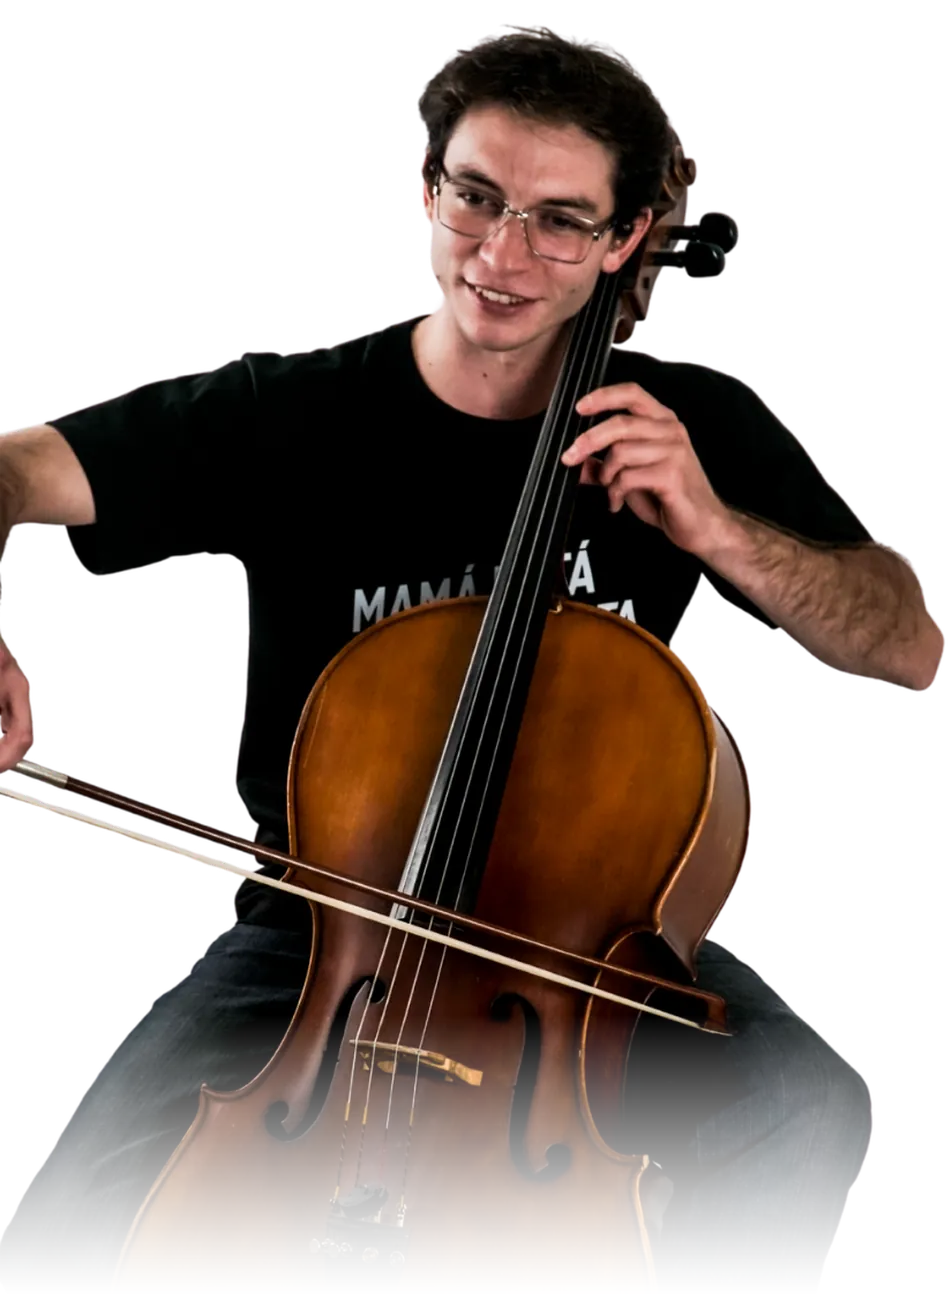
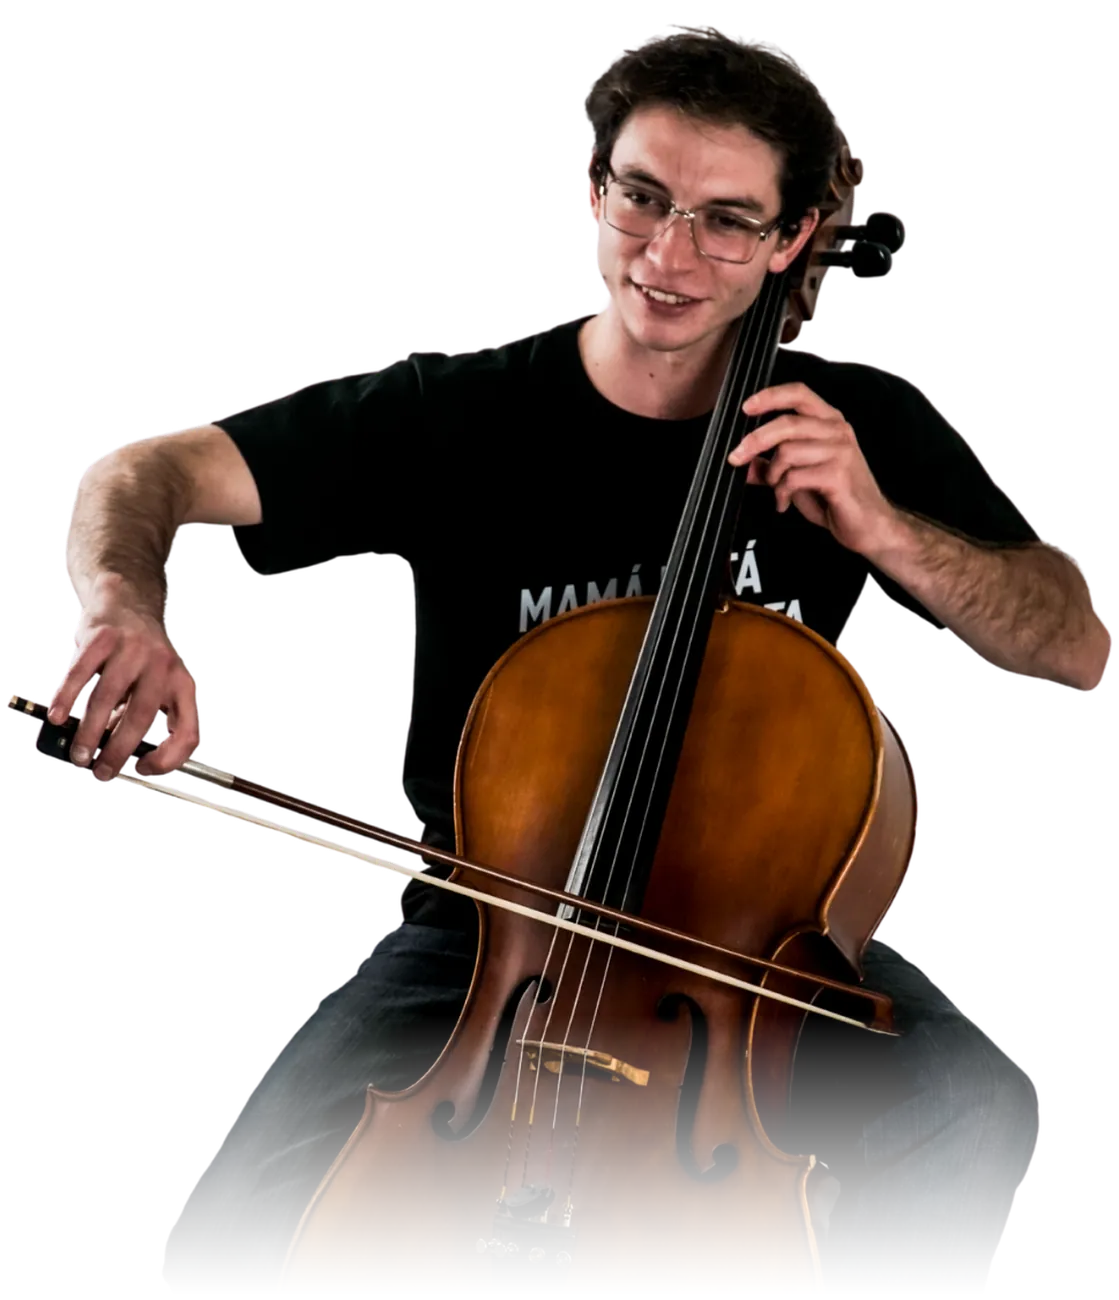
v1.10

diff --git a/programa.js b/programa.js
@@ -2,7 +2,7 @@
 // La versión se publica con herramientas/publicar.js, que la copia a los ?v= de index.html.
 (function () {
   "use strict";
-  const VERSION = "1.9";
+  const VERSION = "1.10";
   const D = window.MEMC;
   const $ = (s, el = document) => el.querySelector(s);
   const $$ = (s, el = document) => [...el.querySelectorAll(s)];
@@ -47,7 +47,7 @@
   // 02 · La obra
   if (D.sinopsis && D.sinopsis.parrafos.length) {
     const s = D.sinopsis;
-    const claves = /^(achicarse|chiquita|imposible|amor)/i;
+    const claves = /^(achicarse|agrandarse|chiquita|juntos|luz)/i;
     const palabras = (t) => esc(t).split(/\s+/).map((w) => `<span class="w${claves.test(w) ? " clave" : ""}">${w}</span>`).join(" ");
     const sello = s.sello ? `
       <div class="sello" data-reveal="sello">
@@ -62,6 +62,7 @@
       ${titulo(["De qué", "se trata"])}
       ${s.pendiente && borrador ? '<p class="nota-pendiente" data-reveal="sube">Borrador: falta el texto oficial</p>' : ""}
       <div class="lectura">${s.parrafos.map((p) => `<p>${palabras(p)}</p>`).join("")}</div>
+      ${s.resena ? `<blockquote class="resena" data-reveal="sube"><p>“${esc(s.resena.cita)}”</p><footer>${s.resena.url ? `<a href="${esc(s.resena.url)}" target="_blank" rel="noopener">${esc(s.resena.autora)}</a>` : esc(s.resena.autora)}</footer></blockquote>` : ""}
       ${s.foto ? `<figure class="foto-obra" data-reveal="telon"><img src="${esc(s.foto.chica || s.foto.src)}" srcset="${esc(s.foto.chica || s.foto.src)} 800w, ${esc(s.foto.src)} 1600w" sizes="(min-width: 700px) 600px, 100vw" alt="${esc(s.foto.alt)}" loading="lazy" decoding="async"></figure>` : ""}
       ${(sello || s.dato) ? `<div class="premio">${sello}${s.dato ? `<p data-reveal="sube" style="--d:200ms">${esc(s.dato)}</p>` : ""}</div>` : ""}
       ${D.obra.duracion ? `<p class="duracion" data-reveal="sube">Duración: ${esc(D.obra.duracion)}</p>` : ""}
@@ -216,8 +217,9 @@
 
   // ---------- Elenco y banda: el afiche ----------
   // Todo pasa en el mismo lugar, como un afiche que cambia: el color de fondo, el nombre gigante detrás y la persona
-  // adelante, que lo tapa. Arranca con todos juntos (el saludo final) y después pasa uno por uno. Va solo mientras
-  // está en pantalla y se frena apenas alguien toca. Solo se animan transform y opacity.
+  // adelante, que lo tapa. Arranca con las imágenes del foco que armaron ellos (img/foco/: el título y las siluetas),
+  // que se funden en todos juntos (el saludo final); después pasa uno por uno. Va solo mientras está en pantalla y
+  // se frena apenas alguien toca. Solo se animan transform y opacity.
   (function afiche() {
     const raiz = $("#escenario");
     if (!raiz) return;
@@ -225,14 +227,16 @@
     const TONOS = ["#ff856e", "#34c4aa", "#c89d4c", "#e4d5b6", "#2bd394"];
     const primerNombre = (n) => n.split(" ")[0];
     const GRUPOS = {
-      elenco: { titulo: "Elenco", intro: D.elencoIntro || "", gente: (D.elenco || []).map((p) => ({ ...p, palabra: p.personaje, papel: "" })) },
-      banda: { titulo: "Banda", intro: D.bandaIntro || "", gente: (D.banda || []).map((p) => ({ ...p, palabra: primerNombre(p.nombre), papel: p.rol })) },
+      elenco: { focos: ["portada", "elenco"], titulo: "Elenco", intro: D.elencoIntro || "", gente: (D.elenco || []).map((p) => ({ ...p, palabra: p.personaje, papel: "" })) },
+      banda: { focos: ["banda"], titulo: "Banda", intro: D.bandaIntro || "", gente: (D.banda || []).map((p) => ({ ...p, palabra: primerNombre(p.nombre), papel: p.rol })) },
     };
     let grupo = GRUPOS.elenco.gente.length ? "elenco" : "banda";
     let reloj = null, auto = true, actual = null, visible = false, iniciado = false;
     let ps = [], ir = () => {};
+    const PISTA = '<p class="e-pista">Tocá a alguien o deslizá</p>';
     function textoHTML(paso, g) {
-      if (!paso.p) return `<p class="e-pregunta">${esc(g.intro)}</p><p class="e-pista">Tocá a alguien o deslizá</p>`;
+      if (paso.tipo === "foco") return `<p class="e-pregunta">${esc(g.intro)}</p>`;
+      if (paso.tipo === "todos") return `<p class="e-pregunta">${esc(g.intro)}</p>${PISTA}`;
       const p = paso.p;
       return `${p.papel ? `<p class="e-papel">${esc(p.papel)}</p>` : ""}<h3 class="e-pill" style="--tono:${p.tono}">${esc(p.nombre)}</h3>` +
         (p.bio ? `<p class="e-bio">${esc(p.bio)}</p><button class="e-leer" type="button">Leer más</button>` : "");
@@ -245,12 +249,12 @@
       if (!auto || !visible) return;
       const c = ps[i].p && caras.find((x) => x.dataset.id === ps[i].p.id);
       if (c && !quieto) { void c.offsetWidth; c.classList.add("corre"); }
-      const sig = i + 1 < ps.length ? i + 1 : 1;
-      reloj = setTimeout(() => ir(sig), ps[i].p ? T : 3000);
+      const sig = i + 1 < ps.length ? i + 1 : 0;
+      reloj = setTimeout(() => ir(sig), ps[i].p ? T : ps[i].tipo === "foco" ? 2400 : 3200);
     }
     function montar() {
       const g = GRUPOS[grupo], n = g.gente.length;
-      ps = [{ p: null }, ...g.gente.map((p) => ({ p }))]; actual = null; clearTimeout(reloj);
+      ps = [...g.focos.map((f) => ({ tipo: "foco", f })), { tipo: "todos" }, ...g.gente.map((p) => ({ tipo: "persona", p }))]; actual = null; clearTimeout(reloj);
       g.gente.forEach((p, k) => { p.tono = TONOS[k % TONOS.length]; });
       const hay = (k) => GRUPOS[k].gente.length;
       const capa = (k, txt, clase) => `<p class="${clase}" data-k="${esc(k)}" aria-hidden="true">${esc(txt)}</p>`;
@@ -264,6 +268,7 @@
           ${capa("todos", g.titulo, "e-palabra on")}${g.gente.map((p) => capa(p.id, p.palabra, "e-palabra")).join("")}
           ${g.gente.map((p, k) => `<button class="e-figura" type="button" data-id="${esc(p.id)}" style="--k:${k}" aria-label="Conocer a ${esc(p.nombre)}"><img src="img/${grupo}/${esc(p.id)}.webp" alt="" decoding="async"></button>`).join("")}
           ${g.gente.map((p) => capa(p.id, p.palabra, "e-palabra e-borde")).join("")}
+          <button class="e-foco" type="button" aria-label="Ver a todos">${g.focos.map((f) => `<img data-f="${f}" src="img/foco/${f}.webp" alt="" decoding="async">`).join("")}</button>
           <div class="e-velo"></div>
           <div class="e-texto" aria-live="polite"></div>
         </div>
@@ -271,11 +276,16 @@
       const cuadro = $(".e-cuadro", raiz), texto = $(".e-texto", raiz), figuras = $$(".e-figura", raiz);
       // todos juntos: en fila, más chicos y arriba; los impares un poco más adelante
       const enFila = (k) => {
-        const W = cuadro.clientWidth, H = cuadro.clientHeight, ancho = Math.min(W * 0.84, H * 0.95);
+        const W = cuadro.clientWidth, H = cuadro.clientHeight, ancho = Math.min(W * 0.7, H * 0.8);
         const x = (k + 0.5) / n * ancho - ancho / 2, adelante = k % 2;
-        return `translate(${x.toFixed(1)}px, ${(-H * (adelante ? 0.24 : 0.29)).toFixed(1)}px) scale(${adelante ? 0.52 : 0.47})`;
+        return `translate(${x.toFixed(1)}px, ${(-H * (adelante ? 0.22 : 0.27)).toFixed(1)}px) scale(${adelante ? 0.48 : 0.44})`;
       };
-      function ponerTexto(paso, demora) {
+      function ponerTexto(paso, demora, antes) {
+        // del foco a todos juntos la pregunta queda: solo se suma la pista
+        if (antes && antes.tipo === "foco" && paso.tipo === "foco" && $(".e-pregunta", texto)) return;
+        if (antes && antes.tipo === "foco" && paso.tipo === "todos" && $(".e-pregunta", texto)) {
+          texto.insertAdjacentHTML("beforeend", PISTA); return;
+        }
         texto.classList.add("sale"); texto.classList.remove("entra", "abierto");
         setTimeout(() => {
           texto.innerHTML = textoHTML(paso, g);
@@ -286,21 +296,25 @@
       }
       ir = (i) => {
         const antes = actual === null ? null : ps[actual]; actual = i;
-        const paso = ps[i], k = paso.p ? paso.p.id : "todos";
+        const paso = ps[i], k = paso.p ? paso.p.id : "todos", foco = paso.tipo === "foco";
         cuadro.classList.toggle("solo", !!paso.p);
-        $$(".e-fondo, .e-palabra", cuadro).forEach((c) => c.classList.toggle("on", c.dataset.k === k));
+        cuadro.classList.toggle("en-foco", foco);
+        $$(".e-fondo", cuadro).forEach((c) => c.classList.toggle("on", c.dataset.k === k));
+        $$(".e-palabra", cuadro).forEach((c) => c.classList.toggle("on", !foco && c.dataset.k === k));
+        $$(".e-foco img", cuadro).forEach((im) => im.classList.toggle("on", im.dataset.f === paso.f));
         figuras.forEach((f, j) => {
           const es = !!paso.p && f.dataset.id === paso.p.id;
-          f.classList.toggle("on", !paso.p || es);
+          f.classList.toggle("on", paso.tipo === "todos" || es);
           f.classList.toggle("activa", es);
           if (!paso.p) f.style.transform = enFila(j);
           else if (es) f.style.transform = "none";
           // el que se va da un paso atrás; si venían todos juntos, los demás se desvanecen en su lugar
           else if (antes && antes.p && f.dataset.id === antes.p.id) f.style.transform = "translateY(3%) scale(.93)";
         });
-        ponerTexto(paso, quieto ? 0 : paso.p ? 420 : 300);
+        ponerTexto(paso, quieto ? 0 : paso.p ? 420 : 300, antes);
         programar(i);
       };
+      $(".e-foco", raiz).addEventListener("click", () => { detener(); ir(g.focos.length); });
       const aPersona = (id) => { detener(); const i = ps.findIndex((x) => x.p && x.p.id === id); if (i !== actual) ir(i); };
       $$(".e-cara, .e-figura", raiz).forEach((b) => b.addEventListener("click", () => aPersona(b.dataset.id)));
       $$(".e-seg button", raiz).forEach((b) => b.addEventListener("click", () => { if (b.dataset.g !== grupo) { grupo = b.dataset.g; montar(); } }));

diff --git a/estilos.css b/estilos.css
@@ -279,6 +279,11 @@ html:not(.js) .cel .tachado { stroke-dashoffset: 0; }
 .js .lectura .w { opacity: .18; transition: opacity .45s ease; }
 .js .lectura .w.on { opacity: 1; }
 .lectura .w.clave { color: var(--coral); }
+/* la frase de la reseña */
+.resena { margin: 30px 0 0; padding-left: 16px; border-left: 3px solid var(--coral); }
+.resena p { margin: 0; font: italic 700 clamp(22px, 6.4vw, 30px)/1.12 var(--display); text-transform: uppercase; color: var(--arena); }
+.resena footer { margin-top: 0; font: 600 12.5px/1.3 var(--display); letter-spacing: .18em; text-transform: uppercase; color: var(--tenue); }
+.resena a { display: inline-block; padding: 12px 0; color: inherit; text-decoration: underline; text-decoration-color: var(--linea); text-underline-offset: 4px; }
 /* foto grande de la obra: se abre como un telón desde el centro */
 .foto-obra { position: relative; margin: 34px calc(var(--gutter) * -1) 6px; aspect-ratio: 3 / 2; overflow: hidden; }
 .foto-obra img { position: absolute; left: 0; top: -9%; width: 100%; height: 118%; object-fit: cover; translate: 0 var(--py, 0%); }
@@ -369,6 +374,17 @@ html:not(.js) .cel .tachado { stroke-dashoffset: 0; }
 .e-cara.activa .aro circle { stroke-dashoffset: 0; }
 .e-cara.activa.corre .aro circle { animation: e-aro var(--t, 5.2s) linear both; }
 @keyframes e-aro { from { stroke-dashoffset: 100; } to { stroke-dashoffset: 0; } }
+/* al principio, las imágenes del foco que armaron (tal cual, solo se funden una en otra) */
+.e-foco {
+  position: absolute; left: 50%; top: 0; z-index: 4; width: min(100%, 72vh); aspect-ratio: 1; padding: 0; border: 0; background: none; cursor: pointer;
+  translate: -50% 0; opacity: 0; visibility: hidden; touch-action: pan-y; transition: opacity .8s ease, visibility 0s linear .8s;
+}
+@supports (width: 1cqh) { .e-foco { width: min(100cqw, 66cqh); } }
+.en-foco .e-foco { opacity: 1; visibility: visible; transition: opacity .6s ease; }
+.e-foco img { position: absolute; inset: 0; width: 100%; height: 100%; opacity: 0; transition: opacity .9s ease; }
+.e-foco img.on { opacity: 1; }
+/* al aparecer todos juntos, de a uno */
+.e-cuadro:not(.solo) .e-figura.on { transition: transform .95s var(--curva), opacity .6s ease calc(.2s + var(--k) * 90ms); }
 
 /* ---------- Canciones ---------- */
 .canciones { list-style: none; margin: 0; padding: 0; counter-reset: c; }
@@ -595,6 +611,6 @@ html:not(.js) .cel .tachado { stroke-dashoffset: 0; }
   .menu-lista a { transform: none; }
   .visor[open] .visor-pista { animation: none; }
   .dock-nombre.cambia { animation: none; }
-  .e-figura, .e-figura.activa, .e-figura:not(.on), .e-palabra, .e-palabra.on { transition-property: opacity, visibility; }
+  .e-figura, .e-figura.activa, .e-figura:not(.on), .e-cuadro:not(.solo) .e-figura.on, .e-palabra, .e-palabra.on, .e-foco, .en-foco .e-foco { transition-property: opacity, visibility; }
   .e-cara.activa { transform: none; }
 }

diff --git a/contenido.js b/contenido.js
@@ -29,12 +29,17 @@ window.MEMC = {
   },
 
   sinopsis: {
-    pendiente: true, // borrador escrito por nosotros: reemplazar por el texto oficial
+    // parafraseada de la reseña de Brisa Martínez para Criticario Teatral (ver "resena")
     parrafos: [
-      "Rita cría sola a sus dos hijos. Diego vive en un mundo de fantasía que le ganó lugar a la realidad. Clara quiere despegarse de una madre que la protege de más y vivir su propia historia.",
-      "Un día llega una noticia imposible: Rita empieza a achicarse. Mientras mamá se hace cada vez más chiquita, la familia tiene que aprender a cuidarse de otra manera.",
-      "Una comedia musical sobre el amor, el paso del tiempo y los vínculos que nos sostienen.",
+      "Rita es la capitana de un barco de tres, y un día empieza a achicarse. Entonces sus hijos tienen que agrandarse de golpe: Diego y Clara salen a pelear contra miedos y dragones, preparan pociones mágicas y aprenden a sostener el timón en un mar que los desborda.",
+      "Crecer es ocupar más lugar, y nadie te enseña a bajar de la fantasía al mundo de los grandes mientras todavía sos chico. Pero la aventura también tiene su belleza: aunque mamá esté cada vez más chiquita, los tres siguen navegando juntos.",
+      "Con canciones y banda en vivo, una comedia musical que se pregunta qué hacemos cuando la luz empieza a apagarse.",
     ],
+    resena: {
+      cita: "Merece la pena verlo, pero, sobre todo, merece la pena sentirlo.",
+      autora: "Brisa Martínez · Criticario Teatral",
+      url: "https://www.instagram.com/p/DeaeJ9rj8Xr/",
+    },
     sello: "Premio Hugo · Mejor musical off · 2016 ·",
     // foto grande que corta la sinopsis
     foto: { src: "img/obra/abrazo-1600.webp", chica: "img/obra/abrazo-800.webp", alt: "Diego y Clara abrazan a Rita" },

diff --git a/index.html b/index.html
@@ -20,8 +20,8 @@
 <link rel="apple-touch-icon" href="img/favicon.png">
 <link rel="preload" href="fuentes/barlowcondensed-800i-latin.woff2" as="font" type="font/woff2" crossorigin>
 <link rel="preload" href="fuentes/barlow-400-latin.woff2" as="font" type="font/woff2" crossorigin>
-<link rel="stylesheet" href="fuentes/fuentes.css?v=1.9">
-<link rel="stylesheet" href="estilos.css?v=1.9">
+<link rel="stylesheet" href="fuentes/fuentes.css?v=1.10">
+<link rel="stylesheet" href="estilos.css?v=1.10">
 <script>document.documentElement.classList.add("js");</script>
 </head>
 <body>
@@ -83,7 +83,7 @@
   </div>
 </dialog>
 
-<script src="contenido.js?v=1.9"></script>
-<script src="programa.js?v=1.9"></script>
+<script src="contenido.js?v=1.10"></script>
+<script src="programa.js?v=1.10"></script>
 </body>
 </html>
